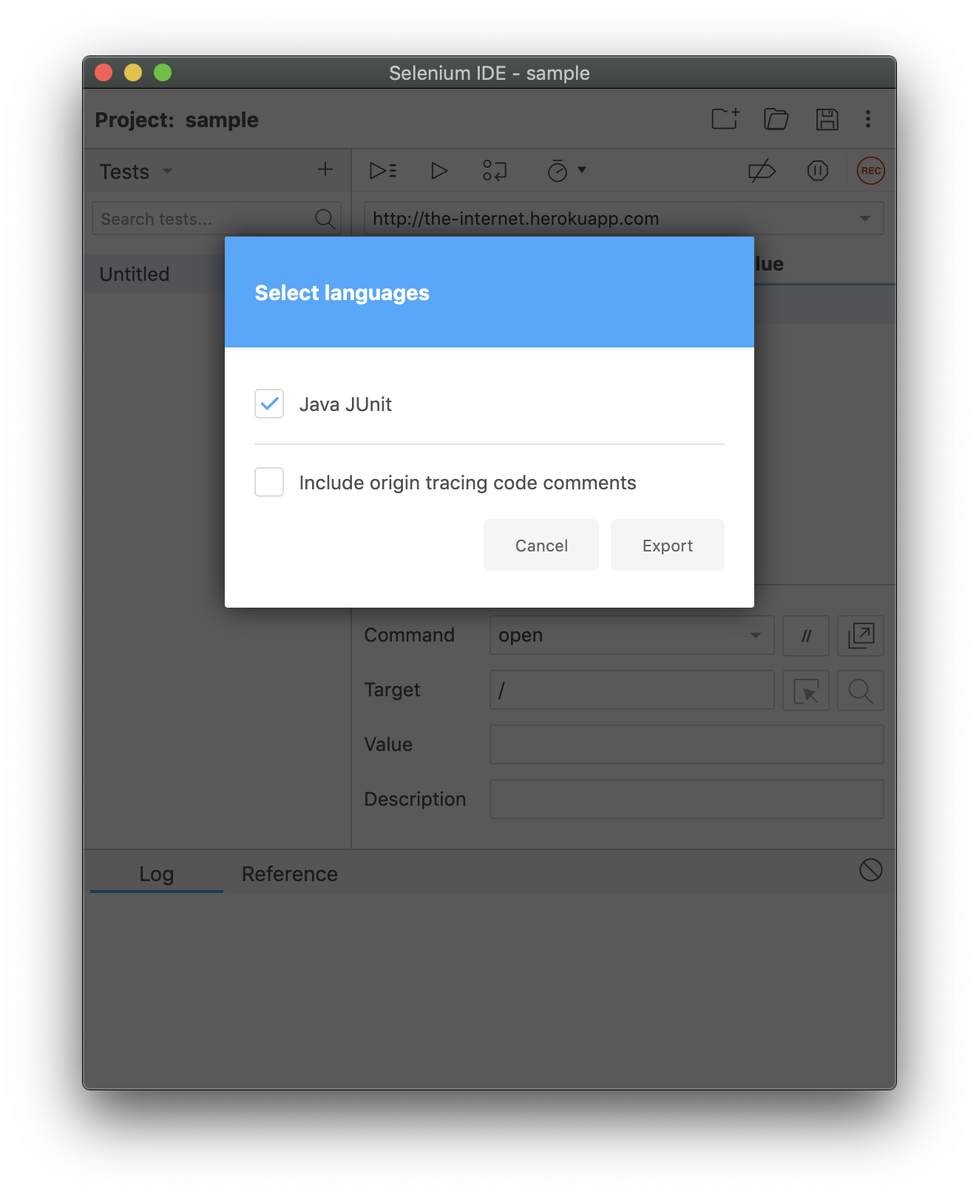
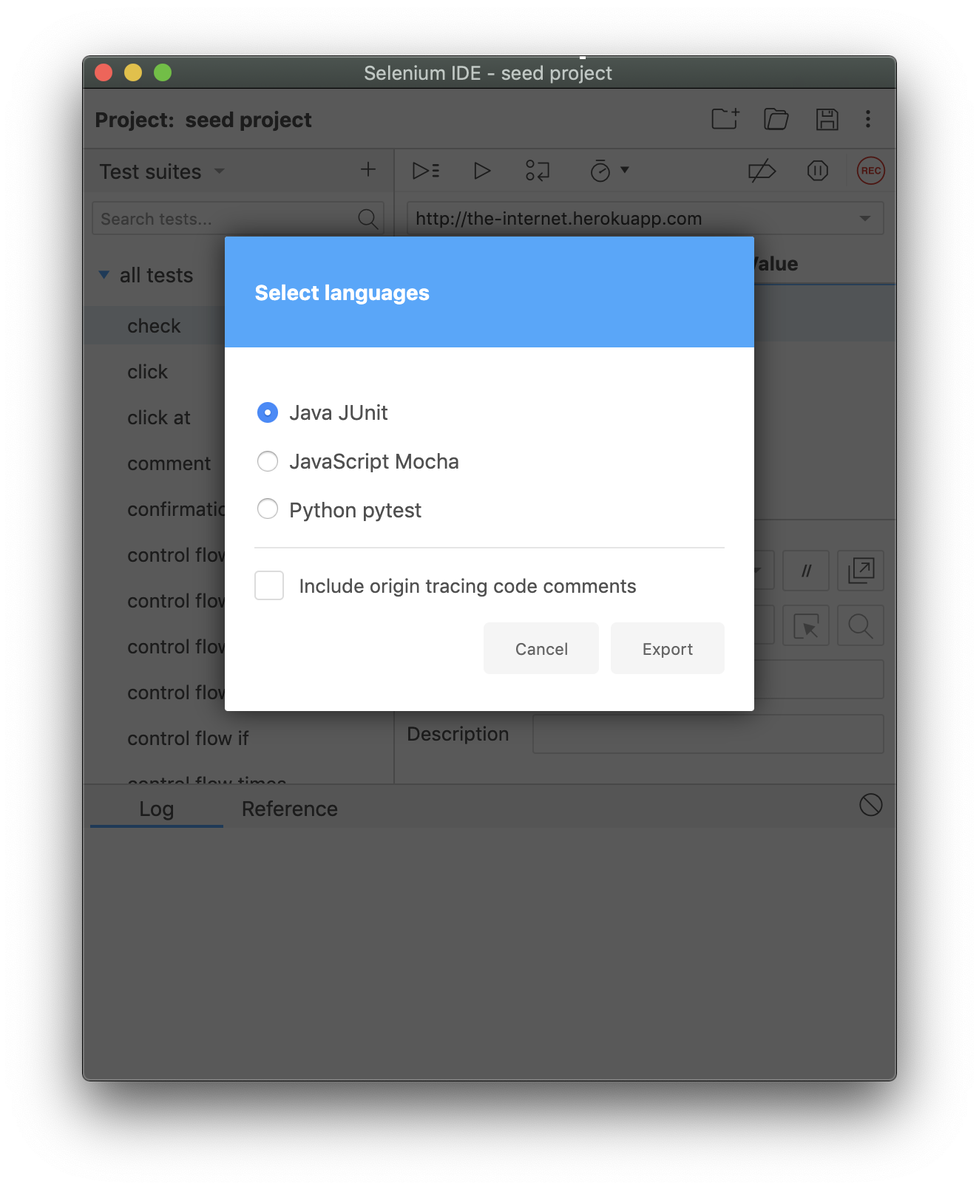
Updated command and code export docs for Selenium IDE

diff --git a/src/main/webapp/selenium-ide/docs/en/introduction/code-export.html b/src/main/webapp/selenium-ide/docs/en/introduction/code-export.html
@@ -44,7 +44,12 @@
 <p>When exporting there is an optional toggle to enable origin tracing code comments.</p>
 <p>This will place inline code comments in the exported file with details about the test step in Selenium IDE that generated it.</p>
 <h2><a class="anchor" aria-hidden="true" id="supported-exports"></a><a href="#supported-exports" aria-hidden="true" class="hash-link"><svg class="hash-link-icon" aria-hidden="true" height="16" version="1.1" viewBox="0 0 16 16" width="16"><path fill-rule="evenodd" d="M4 9h1v1H4c-1.5 0-3-1.69-3-3.5S2.55 3 4 3h4c1.45 0 3 1.69 3 3.5 0 1.41-.91 2.72-2 3.25V8.59c.58-.45 1-1.27 1-2.09C10 5.22 8.98 4 8 4H4c-.98 0-2 1.22-2 2.5S3 9 4 9zm9-3h-1v1h1c1 0 2 1.22 2 2.5S13.98 12 13 12H9c-.98 0-2-1.22-2-2.5 0-.83.42-1.64 1-2.09V6.25c-1.09.53-2 1.84-2 3.25C6 11.31 7.55 13 9 13h4c1.45 0 3-1.69 3-3.5S14.5 6 13 6z"></path></svg></a>Supported Exports</h2>
-<p>Currently, export to Java is supported. Specifically, Java for JUnit.</p>
+<p>Currently, export to the following languages and test frameworks is supported.</p>
+<ul>
+<li>Java JUnit</li>
+<li>JavaScript Mocha</li>
+<li>Python pytest</li>
+</ul>
 <p>We intend to support all of the officially supported programming language bindings for Selenium (e.g., Java, JavaScript, C#, Python, and Ruby) in at least one testing framework for each language.</p>
 <p>Contributions are welcome to help add new languages and test frameworks for a given language. See <a href="/selenium-ide/docs/en/introduction/code-export#how-to-contribute">How To Contribute</a> for details on how.</p>
 <h3><a class="anchor" aria-hidden="true" id="java-junit"></a><a href="#java-junit" aria-hidden="true" class="hash-link"><svg class="hash-link-icon" aria-hidden="true" height="16" version="1.1" viewBox="0 0 16 16" width="16"><path fill-rule="evenodd" d="M4 9h1v1H4c-1.5 0-3-1.69-3-3.5S2.55 3 4 3h4c1.45 0 3 1.69 3 3.5 0 1.41-.91 2.72-2 3.25V8.59c.58-.45 1-1.27 1-2.09C10 5.22 8.98 4 8 4H4c-.98 0-2 1.22-2 2.5S3 9 4 9zm9-3h-1v1h1c1 0 2 1.22 2 2.5S13.98 12 13 12H9c-.98 0-2-1.22-2-2.5 0-.83.42-1.64 1-2.09V6.25c-1.09.53-2 1.84-2 3.25C6 11.31 7.55 13 9 13h4c1.45 0 3-1.69 3-3.5S14.5 6 13 6z"></path></svg></a>Java JUnit</h3>
@@ -72,6 +77,26 @@
   <span class="hljs-tag">&lt;/<span class="hljs-name">dependencies</span>&gt;</span>
 <span class="hljs-tag">&lt;/<span class="hljs-name">project</span>&gt;</span>
 </code></pre>
+<h3><a class="anchor" aria-hidden="true" id="javascript-mocha"></a><a href="#javascript-mocha" aria-hidden="true" class="hash-link"><svg class="hash-link-icon" aria-hidden="true" height="16" version="1.1" viewBox="0 0 16 16" width="16"><path fill-rule="evenodd" d="M4 9h1v1H4c-1.5 0-3-1.69-3-3.5S2.55 3 4 3h4c1.45 0 3 1.69 3 3.5 0 1.41-.91 2.72-2 3.25V8.59c.58-.45 1-1.27 1-2.09C10 5.22 8.98 4 8 4H4c-.98 0-2 1.22-2 2.5S3 9 4 9zm9-3h-1v1h1c1 0 2 1.22 2 2.5S13.98 12 13 12H9c-.98 0-2-1.22-2-2.5 0-.83.42-1.64 1-2.09V6.25c-1.09.53-2 1.84-2 3.25C6 11.31 7.55 13 9 13h4c1.45 0 3-1.69 3-3.5S14.5 6 13 6z"></path></svg></a>JavaScript Mocha</h3>
+<p>The exported code for JavaScript Mocha is built to work with Node 10, Mocha 6.1.x, and the latest version of Selenium 4.</p>
+<p>You should be able to take the exported JavaScript file and run it after installing these dependencies (e.g., with <code>npm install</code>).</p>
+<p>Here's a sample <code>package.json</code> to help you get started.</p>
+<pre><code class="hljs css language-javascript">{
+  <span class="hljs-string">"dependencies"</span>: {
+    <span class="hljs-string">"mocha"</span>: <span class="hljs-string">"^6.1.4"</span>,
+    <span class="hljs-string">"selenium-webdriver"</span>: <span class="hljs-string">"^4.0.0-alpha.3"</span>
+  }
+}
+</code></pre>
+<h3><a class="anchor" aria-hidden="true" id="python-pytest"></a><a href="#python-pytest" aria-hidden="true" class="hash-link"><svg class="hash-link-icon" aria-hidden="true" height="16" version="1.1" viewBox="0 0 16 16" width="16"><path fill-rule="evenodd" d="M4 9h1v1H4c-1.5 0-3-1.69-3-3.5S2.55 3 4 3h4c1.45 0 3 1.69 3 3.5 0 1.41-.91 2.72-2 3.25V8.59c.58-.45 1-1.27 1-2.09C10 5.22 8.98 4 8 4H4c-.98 0-2 1.22-2 2.5S3 9 4 9zm9-3h-1v1h1c1 0 2 1.22 2 2.5S13.98 12 13 12H9c-.98 0-2-1.22-2-2.5 0-.83.42-1.64 1-2.09V6.25c-1.09.53-2 1.84-2 3.25C6 11.31 7.55 13 9 13h4c1.45 0 3-1.69 3-3.5S14.5 6 13 6z"></path></svg></a>Python pytest</h3>
+<p>The exported code for Python pytest is built to work with Python 3, pytest 4.6.x, and the latest version of Selenium 4.</p>
+<p>You should be able to take the exported JavaScript file and run it after installing these dependencies (e.g., with <code>pip3 install</code>).</p>
+<p>Here's a sample <code>requirements.txt</code> to help you get started.</p>
+<pre><code class="hljs">pytest == <span class="hljs-number">4.6</span><span class="hljs-number">.3</span>
+selenium == <span class="hljs-number">4.0</span><span class="hljs-number">.0</span>a1
+</code></pre>
+<pre><code class="hljs css language-sh">&gt; pip3 install -r ./requirements.txt
+</code></pre>
 <h2><a class="anchor" aria-hidden="true" id="how-to-contribute"></a><a href="#how-to-contribute" aria-hidden="true" class="hash-link"><svg class="hash-link-icon" aria-hidden="true" height="16" version="1.1" viewBox="0 0 16 16" width="16"><path fill-rule="evenodd" d="M4 9h1v1H4c-1.5 0-3-1.69-3-3.5S2.55 3 4 3h4c1.45 0 3 1.69 3 3.5 0 1.41-.91 2.72-2 3.25V8.59c.58-.45 1-1.27 1-2.09C10 5.22 8.98 4 8 4H4c-.98 0-2 1.22-2 2.5S3 9 4 9zm9-3h-1v1h1c1 0 2 1.22 2 2.5S13.98 12 13 12H9c-.98 0-2-1.22-2-2.5 0-.83.42-1.64 1-2.09V6.25c-1.09.53-2 1.84-2 3.25C6 11.31 7.55 13 9 13h4c1.45 0 3-1.69 3-3.5S14.5 6 13 6z"></path></svg></a>How To Contribute</h2>
 <p>Code export was built in a modular way to help enable contributions.</p>
 <p>Each language and test framework will have its own package containing the code to be exported. Each snippet of code maps to a command in Selenium IDE and each of these packages rely on an underlying &quot;core&quot; package which does all of the heavy lifting.</p>
@@ -79,7 +104,7 @@
 <h3><a class="anchor" aria-hidden="true" id="1-create-a-new-package"></a><a href="#1-create-a-new-package" aria-hidden="true" class="hash-link"><svg class="hash-link-icon" aria-hidden="true" height="16" version="1.1" viewBox="0 0 16 16" width="16"><path fill-rule="evenodd" d="M4 9h1v1H4c-1.5 0-3-1.69-3-3.5S2.55 3 4 3h4c1.45 0 3 1.69 3 3.5 0 1.41-.91 2.72-2 3.25V8.59c.58-.45 1-1.27 1-2.09C10 5.22 8.98 4 8 4H4c-.98 0-2 1.22-2 2.5S3 9 4 9zm9-3h-1v1h1c1 0 2 1.22 2 2.5S13.98 12 13 12H9c-.98 0-2-1.22-2-2.5 0-.83.42-1.64 1-2.09V6.25c-1.09.53-2 1.84-2 3.25C6 11.31 7.55 13 9 13h4c1.45 0 3-1.69 3-3.5S14.5 6 13 6z"></path></svg></a>1. Create a new package</h3>
 <p>First, copy an existing language package (e.g., <code>packages/code-export-java-junit</code>) and rename it (e.g., the folder and the details in the <code>package.json</code> file) to the target language and framework you'd like to contribute (e.g., <code>packages/code-export-ruby-rspec</code>, etc.).</p>
 <p>Next, add the new package as a dependency to <a href="https://github.com/SeleniumHQ/selenium-ide/blob/c55c556ffc947fd3f6ee8ab317915c6f879a88dc/packages/code-export/package.json#L22">the <code>package.json</code> in <code>code-export</code></a>.</p>
-<p>Lastly, run <code>yarn</code> from the root of the project.</p>
+<p>Lastly, run <code>yarn</code> from the root of the project, and then build the project using <code>yarn watch</code> (full details for getting a local build going are available <a href="https://github.com/SeleniumHQ/selenium-ide/blob/v3/README.md">here</a>).</p>
 <h3><a class="anchor" aria-hidden="true" id="2-update-the-locators-and-commands"></a><a href="#2-update-the-locators-and-commands" aria-hidden="true" class="hash-link"><svg class="hash-link-icon" aria-hidden="true" height="16" version="1.1" viewBox="0 0 16 16" width="16"><path fill-rule="evenodd" d="M4 9h1v1H4c-1.5 0-3-1.69-3-3.5S2.55 3 4 3h4c1.45 0 3 1.69 3 3.5 0 1.41-.91 2.72-2 3.25V8.59c.58-.45 1-1.27 1-2.09C10 5.22 8.98 4 8 4H4c-.98 0-2 1.22-2 2.5S3 9 4 9zm9-3h-1v1h1c1 0 2 1.22 2 2.5S13.98 12 13 12H9c-.98 0-2-1.22-2-2.5 0-.83.42-1.64 1-2.09V6.25c-1.09.53-2 1.84-2 3.25C6 11.31 7.55 13 9 13h4c1.45 0 3-1.69 3-3.5S14.5 6 13 6z"></path></svg></a>2. Update the locators and commands</h3>
 <p>The bread and butter of code export is the language specific strings that will be turned into outputted code. The most prominent of these are the commands and locator strategies (e.g., the syntax for the &quot;by&quot; lookups).</p>
 <p>For a given language, there is a file for each, along with accompanying test files.</p>
@@ -120,4 +145,4 @@
 <p>Test, fix, and test again until you are confident with the end result.</p>
 <h3><a class="anchor" aria-hidden="true" id="7-submit-a-pr"></a><a href="#7-submit-a-pr" aria-hidden="true" class="hash-link"><svg class="hash-link-icon" aria-hidden="true" height="16" version="1.1" viewBox="0 0 16 16" width="16"><path fill-rule="evenodd" d="M4 9h1v1H4c-1.5 0-3-1.69-3-3.5S2.55 3 4 3h4c1.45 0 3 1.69 3 3.5 0 1.41-.91 2.72-2 3.25V8.59c.58-.45 1-1.27 1-2.09C10 5.22 8.98 4 8 4H4c-.98 0-2 1.22-2 2.5S3 9 4 9zm9-3h-1v1h1c1 0 2 1.22 2 2.5S13.98 12 13 12H9c-.98 0-2-1.22-2-2.5 0-.83.42-1.64 1-2.09V6.25c-1.09.53-2 1.84-2 3.25C6 11.31 7.55 13 9 13h4c1.45 0 3-1.69 3-3.5S14.5 6 13 6z"></path></svg></a>7. Submit a PR</h3>
 <p>You've done the hard part. Now it's just a simple matter of submitting a PR. Please do so against the <a href="https://github.com/SeleniumHQ/selenium-ide/tree/v3"><code>v3</code> branch</a>.</p>
-</span></div></article></div><div class="docLastUpdate"><em>Last updated on 6/3/2019</em></div><div class="docs-prevnext"><a class="docs-prev button" href="/selenium-ide/docs/en/introduction/control-flow"><span class="arrow-prev">← </span><span>Control Flow</span></a><a class="docs-next button" href="/selenium-ide/docs/en/introduction/faq"><span>Frequently Asked Questions</span><span class="arrow-next"> →</span></a></div></div></div><nav class="onPageNav"><ul class="toc-headings"><li><a href="#getting-started">Getting Started</a><ul class="toc-headings"><li><a href="#origin-tracing-code-comments">Origin Tracing Code Comments</a></li></ul></li><li><a href="#supported-exports">Supported Exports</a><ul class="toc-headings"><li><a href="#java-junit">Java JUnit</a></li></ul></li><li><a href="#how-to-contribute">How To Contribute</a><ul class="toc-headings"><li><a href="#1-create-a-new-package">1. Create a new package</a></li><li><a href="#2-update-the-locators-and-commands">2. Update the locators and commands</a></li><li><a href="#3-create-the-hooks">3. Create the hooks</a></li><li><a href="#4-update-the-language-specific-attributes">4. Update the language specific attributes</a></li><li><a href="#5-add-it-to-the-mix">5. Add it to the mix</a></li><li><a href="#6-test-and-tune">6. Test and tune</a></li><li><a href="#7-submit-a-pr">7. Submit a PR</a></li></ul></li></ul></nav></div><footer class="nav-footer" id="footer"><section class="sitemap"><a href="/selenium-ide/" class="nav-home"><img src="/selenium-ide/img/selenium-ide64.png" alt="Selenium IDE" width="64"/></a><div><h5>Docs</h5><a href="/selenium-ide/docs/en/introduction/getting-started">Getting Started</a><a href="/selenium-ide/docs/en/api/commands">API Reference</a><a href="/selenium-ide/docs/en/plugins/plugins-getting-started">Build a Plugin</a></div><div><h5>Community</h5><a href="https://seleniumhq.herokuapp.com/" target="_blank" rel="noreferrer noopener">Slack</a><a href="https://webchat.freenode.net/" target="_blank" rel="noreferrer noopener">irc (#selenium)</a><a href="https://groups.google.com/forum/#!forum/selenium-users" target="_blank" rel="noreferrer noopener">Google group</a></div><div><h5>More</h5><a href="/selenium-ide/blog">Blog</a><a href="https://github.com/seleniumhq/selenium-ide" target="_blank" rel="noreferrer noopener">GitHub</a><a class="github-button" href="https://github.com/seleniumhq/selenium-ide" data-icon="octicon-star" data-count-href="/seleniumhq/selenium-ide/stargazers" data-show-count="true" data-count-aria-label="# stargazers on GitHub" aria-label="Star this project on GitHub">Star</a><a href="/selenium-ide/legacy">Legacy IDE</a></div></section><section class="copyright">Copyright © 2019 Software Freedom Conservancy (SFC)</section></footer></div></body></html>
+</span></div></article></div><div class="docLastUpdate"><em>Last updated on 6/3/2019</em></div><div class="docs-prevnext"><a class="docs-prev button" href="/selenium-ide/docs/en/introduction/control-flow"><span class="arrow-prev">← </span><span>Control Flow</span></a><a class="docs-next button" href="/selenium-ide/docs/en/introduction/faq"><span>Frequently Asked Questions</span><span class="arrow-next"> →</span></a></div></div></div><nav class="onPageNav"><ul class="toc-headings"><li><a href="#getting-started">Getting Started</a><ul class="toc-headings"><li><a href="#origin-tracing-code-comments">Origin Tracing Code Comments</a></li></ul></li><li><a href="#supported-exports">Supported Exports</a><ul class="toc-headings"><li><a href="#java-junit">Java JUnit</a></li><li><a href="#javascript-mocha">JavaScript Mocha</a></li><li><a href="#python-pytest">Python pytest</a></li></ul></li><li><a href="#how-to-contribute">How To Contribute</a><ul class="toc-headings"><li><a href="#1-create-a-new-package">1. Create a new package</a></li><li><a href="#2-update-the-locators-and-commands">2. Update the locators and commands</a></li><li><a href="#3-create-the-hooks">3. Create the hooks</a></li><li><a href="#4-update-the-language-specific-attributes">4. Update the language specific attributes</a></li><li><a href="#5-add-it-to-the-mix">5. Add it to the mix</a></li><li><a href="#6-test-and-tune">6. Test and tune</a></li><li><a href="#7-submit-a-pr">7. Submit a PR</a></li></ul></li></ul></nav></div><footer class="nav-footer" id="footer"><section class="sitemap"><a href="/selenium-ide/" class="nav-home"><img src="/selenium-ide/img/selenium-ide64.png" alt="Selenium IDE" width="64"/></a><div><h5>Docs</h5><a href="/selenium-ide/docs/en/introduction/getting-started">Getting Started</a><a href="/selenium-ide/docs/en/api/commands">API Reference</a><a href="/selenium-ide/docs/en/plugins/plugins-getting-started">Build a Plugin</a></div><div><h5>Community</h5><a href="https://seleniumhq.herokuapp.com/" target="_blank" rel="noreferrer noopener">Slack</a><a href="https://webchat.freenode.net/" target="_blank" rel="noreferrer noopener">irc (#selenium)</a><a href="https://groups.google.com/forum/#!forum/selenium-users" target="_blank" rel="noreferrer noopener">Google group</a></div><div><h5>More</h5><a href="/selenium-ide/blog">Blog</a><a href="https://github.com/seleniumhq/selenium-ide" target="_blank" rel="noreferrer noopener">GitHub</a><a class="github-button" href="https://github.com/seleniumhq/selenium-ide" data-icon="octicon-star" data-count-href="/seleniumhq/selenium-ide/stargazers" data-show-count="true" data-count-aria-label="# stargazers on GitHub" aria-label="Star this project on GitHub">Star</a><a href="/selenium-ide/legacy">Legacy IDE</a></div></section><section class="copyright">Copyright © 2019 Software Freedom Conservancy (SFC)</section></footer></div></body></html>

diff --git a/src/main/webapp/selenium-ide/docs/en/introduction/code-export/index.html b/src/main/webapp/selenium-ide/docs/en/introduction/code-export/index.html
@@ -44,7 +44,12 @@
 <p>When exporting there is an optional toggle to enable origin tracing code comments.</p>
 <p>This will place inline code comments in the exported file with details about the test step in Selenium IDE that generated it.</p>
 <h2><a class="anchor" aria-hidden="true" id="supported-exports"></a><a href="#supported-exports" aria-hidden="true" class="hash-link"><svg class="hash-link-icon" aria-hidden="true" height="16" version="1.1" viewBox="0 0 16 16" width="16"><path fill-rule="evenodd" d="M4 9h1v1H4c-1.5 0-3-1.69-3-3.5S2.55 3 4 3h4c1.45 0 3 1.69 3 3.5 0 1.41-.91 2.72-2 3.25V8.59c.58-.45 1-1.27 1-2.09C10 5.22 8.98 4 8 4H4c-.98 0-2 1.22-2 2.5S3 9 4 9zm9-3h-1v1h1c1 0 2 1.22 2 2.5S13.98 12 13 12H9c-.98 0-2-1.22-2-2.5 0-.83.42-1.64 1-2.09V6.25c-1.09.53-2 1.84-2 3.25C6 11.31 7.55 13 9 13h4c1.45 0 3-1.69 3-3.5S14.5 6 13 6z"></path></svg></a>Supported Exports</h2>
-<p>Currently, export to Java is supported. Specifically, Java for JUnit.</p>
+<p>Currently, export to the following languages and test frameworks is supported.</p>
+<ul>
+<li>Java JUnit</li>
+<li>JavaScript Mocha</li>
+<li>Python pytest</li>
+</ul>
 <p>We intend to support all of the officially supported programming language bindings for Selenium (e.g., Java, JavaScript, C#, Python, and Ruby) in at least one testing framework for each language.</p>
 <p>Contributions are welcome to help add new languages and test frameworks for a given language. See <a href="/selenium-ide/docs/en/introduction/code-export#how-to-contribute">How To Contribute</a> for details on how.</p>
 <h3><a class="anchor" aria-hidden="true" id="java-junit"></a><a href="#java-junit" aria-hidden="true" class="hash-link"><svg class="hash-link-icon" aria-hidden="true" height="16" version="1.1" viewBox="0 0 16 16" width="16"><path fill-rule="evenodd" d="M4 9h1v1H4c-1.5 0-3-1.69-3-3.5S2.55 3 4 3h4c1.45 0 3 1.69 3 3.5 0 1.41-.91 2.72-2 3.25V8.59c.58-.45 1-1.27 1-2.09C10 5.22 8.98 4 8 4H4c-.98 0-2 1.22-2 2.5S3 9 4 9zm9-3h-1v1h1c1 0 2 1.22 2 2.5S13.98 12 13 12H9c-.98 0-2-1.22-2-2.5 0-.83.42-1.64 1-2.09V6.25c-1.09.53-2 1.84-2 3.25C6 11.31 7.55 13 9 13h4c1.45 0 3-1.69 3-3.5S14.5 6 13 6z"></path></svg></a>Java JUnit</h3>
@@ -72,6 +77,26 @@
   <span class="hljs-tag">&lt;/<span class="hljs-name">dependencies</span>&gt;</span>
 <span class="hljs-tag">&lt;/<span class="hljs-name">project</span>&gt;</span>
 </code></pre>
+<h3><a class="anchor" aria-hidden="true" id="javascript-mocha"></a><a href="#javascript-mocha" aria-hidden="true" class="hash-link"><svg class="hash-link-icon" aria-hidden="true" height="16" version="1.1" viewBox="0 0 16 16" width="16"><path fill-rule="evenodd" d="M4 9h1v1H4c-1.5 0-3-1.69-3-3.5S2.55 3 4 3h4c1.45 0 3 1.69 3 3.5 0 1.41-.91 2.72-2 3.25V8.59c.58-.45 1-1.27 1-2.09C10 5.22 8.98 4 8 4H4c-.98 0-2 1.22-2 2.5S3 9 4 9zm9-3h-1v1h1c1 0 2 1.22 2 2.5S13.98 12 13 12H9c-.98 0-2-1.22-2-2.5 0-.83.42-1.64 1-2.09V6.25c-1.09.53-2 1.84-2 3.25C6 11.31 7.55 13 9 13h4c1.45 0 3-1.69 3-3.5S14.5 6 13 6z"></path></svg></a>JavaScript Mocha</h3>
+<p>The exported code for JavaScript Mocha is built to work with Node 10, Mocha 6.1.x, and the latest version of Selenium 4.</p>
+<p>You should be able to take the exported JavaScript file and run it after installing these dependencies (e.g., with <code>npm install</code>).</p>
+<p>Here's a sample <code>package.json</code> to help you get started.</p>
+<pre><code class="hljs css language-javascript">{
+  <span class="hljs-string">"dependencies"</span>: {
+    <span class="hljs-string">"mocha"</span>: <span class="hljs-string">"^6.1.4"</span>,
+    <span class="hljs-string">"selenium-webdriver"</span>: <span class="hljs-string">"^4.0.0-alpha.3"</span>
+  }
+}
+</code></pre>
+<h3><a class="anchor" aria-hidden="true" id="python-pytest"></a><a href="#python-pytest" aria-hidden="true" class="hash-link"><svg class="hash-link-icon" aria-hidden="true" height="16" version="1.1" viewBox="0 0 16 16" width="16"><path fill-rule="evenodd" d="M4 9h1v1H4c-1.5 0-3-1.69-3-3.5S2.55 3 4 3h4c1.45 0 3 1.69 3 3.5 0 1.41-.91 2.72-2 3.25V8.59c.58-.45 1-1.27 1-2.09C10 5.22 8.98 4 8 4H4c-.98 0-2 1.22-2 2.5S3 9 4 9zm9-3h-1v1h1c1 0 2 1.22 2 2.5S13.98 12 13 12H9c-.98 0-2-1.22-2-2.5 0-.83.42-1.64 1-2.09V6.25c-1.09.53-2 1.84-2 3.25C6 11.31 7.55 13 9 13h4c1.45 0 3-1.69 3-3.5S14.5 6 13 6z"></path></svg></a>Python pytest</h3>
+<p>The exported code for Python pytest is built to work with Python 3, pytest 4.6.x, and the latest version of Selenium 4.</p>
+<p>You should be able to take the exported JavaScript file and run it after installing these dependencies (e.g., with <code>pip3 install</code>).</p>
+<p>Here's a sample <code>requirements.txt</code> to help you get started.</p>
+<pre><code class="hljs">pytest == <span class="hljs-number">4.6</span><span class="hljs-number">.3</span>
+selenium == <span class="hljs-number">4.0</span><span class="hljs-number">.0</span>a1
+</code></pre>
+<pre><code class="hljs css language-sh">&gt; pip3 install -r ./requirements.txt
+</code></pre>
 <h2><a class="anchor" aria-hidden="true" id="how-to-contribute"></a><a href="#how-to-contribute" aria-hidden="true" class="hash-link"><svg class="hash-link-icon" aria-hidden="true" height="16" version="1.1" viewBox="0 0 16 16" width="16"><path fill-rule="evenodd" d="M4 9h1v1H4c-1.5 0-3-1.69-3-3.5S2.55 3 4 3h4c1.45 0 3 1.69 3 3.5 0 1.41-.91 2.72-2 3.25V8.59c.58-.45 1-1.27 1-2.09C10 5.22 8.98 4 8 4H4c-.98 0-2 1.22-2 2.5S3 9 4 9zm9-3h-1v1h1c1 0 2 1.22 2 2.5S13.98 12 13 12H9c-.98 0-2-1.22-2-2.5 0-.83.42-1.64 1-2.09V6.25c-1.09.53-2 1.84-2 3.25C6 11.31 7.55 13 9 13h4c1.45 0 3-1.69 3-3.5S14.5 6 13 6z"></path></svg></a>How To Contribute</h2>
 <p>Code export was built in a modular way to help enable contributions.</p>
 <p>Each language and test framework will have its own package containing the code to be exported. Each snippet of code maps to a command in Selenium IDE and each of these packages rely on an underlying &quot;core&quot; package which does all of the heavy lifting.</p>
@@ -79,7 +104,7 @@
 <h3><a class="anchor" aria-hidden="true" id="1-create-a-new-package"></a><a href="#1-create-a-new-package" aria-hidden="true" class="hash-link"><svg class="hash-link-icon" aria-hidden="true" height="16" version="1.1" viewBox="0 0 16 16" width="16"><path fill-rule="evenodd" d="M4 9h1v1H4c-1.5 0-3-1.69-3-3.5S2.55 3 4 3h4c1.45 0 3 1.69 3 3.5 0 1.41-.91 2.72-2 3.25V8.59c.58-.45 1-1.27 1-2.09C10 5.22 8.98 4 8 4H4c-.98 0-2 1.22-2 2.5S3 9 4 9zm9-3h-1v1h1c1 0 2 1.22 2 2.5S13.98 12 13 12H9c-.98 0-2-1.22-2-2.5 0-.83.42-1.64 1-2.09V6.25c-1.09.53-2 1.84-2 3.25C6 11.31 7.55 13 9 13h4c1.45 0 3-1.69 3-3.5S14.5 6 13 6z"></path></svg></a>1. Create a new package</h3>
 <p>First, copy an existing language package (e.g., <code>packages/code-export-java-junit</code>) and rename it (e.g., the folder and the details in the <code>package.json</code> file) to the target language and framework you'd like to contribute (e.g., <code>packages/code-export-ruby-rspec</code>, etc.).</p>
 <p>Next, add the new package as a dependency to <a href="https://github.com/SeleniumHQ/selenium-ide/blob/c55c556ffc947fd3f6ee8ab317915c6f879a88dc/packages/code-export/package.json#L22">the <code>package.json</code> in <code>code-export</code></a>.</p>
-<p>Lastly, run <code>yarn</code> from the root of the project.</p>
+<p>Lastly, run <code>yarn</code> from the root of the project, and then build the project using <code>yarn watch</code> (full details for getting a local build going are available <a href="https://github.com/SeleniumHQ/selenium-ide/blob/v3/README.md">here</a>).</p>
 <h3><a class="anchor" aria-hidden="true" id="2-update-the-locators-and-commands"></a><a href="#2-update-the-locators-and-commands" aria-hidden="true" class="hash-link"><svg class="hash-link-icon" aria-hidden="true" height="16" version="1.1" viewBox="0 0 16 16" width="16"><path fill-rule="evenodd" d="M4 9h1v1H4c-1.5 0-3-1.69-3-3.5S2.55 3 4 3h4c1.45 0 3 1.69 3 3.5 0 1.41-.91 2.72-2 3.25V8.59c.58-.45 1-1.27 1-2.09C10 5.22 8.98 4 8 4H4c-.98 0-2 1.22-2 2.5S3 9 4 9zm9-3h-1v1h1c1 0 2 1.22 2 2.5S13.98 12 13 12H9c-.98 0-2-1.22-2-2.5 0-.83.42-1.64 1-2.09V6.25c-1.09.53-2 1.84-2 3.25C6 11.31 7.55 13 9 13h4c1.45 0 3-1.69 3-3.5S14.5 6 13 6z"></path></svg></a>2. Update the locators and commands</h3>
 <p>The bread and butter of code export is the language specific strings that will be turned into outputted code. The most prominent of these are the commands and locator strategies (e.g., the syntax for the &quot;by&quot; lookups).</p>
 <p>For a given language, there is a file for each, along with accompanying test files.</p>
@@ -120,4 +145,4 @@
 <p>Test, fix, and test again until you are confident with the end result.</p>
 <h3><a class="anchor" aria-hidden="true" id="7-submit-a-pr"></a><a href="#7-submit-a-pr" aria-hidden="true" class="hash-link"><svg class="hash-link-icon" aria-hidden="true" height="16" version="1.1" viewBox="0 0 16 16" width="16"><path fill-rule="evenodd" d="M4 9h1v1H4c-1.5 0-3-1.69-3-3.5S2.55 3 4 3h4c1.45 0 3 1.69 3 3.5 0 1.41-.91 2.72-2 3.25V8.59c.58-.45 1-1.27 1-2.09C10 5.22 8.98 4 8 4H4c-.98 0-2 1.22-2 2.5S3 9 4 9zm9-3h-1v1h1c1 0 2 1.22 2 2.5S13.98 12 13 12H9c-.98 0-2-1.22-2-2.5 0-.83.42-1.64 1-2.09V6.25c-1.09.53-2 1.84-2 3.25C6 11.31 7.55 13 9 13h4c1.45 0 3-1.69 3-3.5S14.5 6 13 6z"></path></svg></a>7. Submit a PR</h3>
 <p>You've done the hard part. Now it's just a simple matter of submitting a PR. Please do so against the <a href="https://github.com/SeleniumHQ/selenium-ide/tree/v3"><code>v3</code> branch</a>.</p>
-</span></div></article></div><div class="docLastUpdate"><em>Last updated on 6/3/2019</em></div><div class="docs-prevnext"><a class="docs-prev button" href="/selenium-ide/docs/en/introduction/control-flow"><span class="arrow-prev">← </span><span>Control Flow</span></a><a class="docs-next button" href="/selenium-ide/docs/en/introduction/faq"><span>Frequently Asked Questions</span><span class="arrow-next"> →</span></a></div></div></div><nav class="onPageNav"><ul class="toc-headings"><li><a href="#getting-started">Getting Started</a><ul class="toc-headings"><li><a href="#origin-tracing-code-comments">Origin Tracing Code Comments</a></li></ul></li><li><a href="#supported-exports">Supported Exports</a><ul class="toc-headings"><li><a href="#java-junit">Java JUnit</a></li></ul></li><li><a href="#how-to-contribute">How To Contribute</a><ul class="toc-headings"><li><a href="#1-create-a-new-package">1. Create a new package</a></li><li><a href="#2-update-the-locators-and-commands">2. Update the locators and commands</a></li><li><a href="#3-create-the-hooks">3. Create the hooks</a></li><li><a href="#4-update-the-language-specific-attributes">4. Update the language specific attributes</a></li><li><a href="#5-add-it-to-the-mix">5. Add it to the mix</a></li><li><a href="#6-test-and-tune">6. Test and tune</a></li><li><a href="#7-submit-a-pr">7. Submit a PR</a></li></ul></li></ul></nav></div><footer class="nav-footer" id="footer"><section class="sitemap"><a href="/selenium-ide/" class="nav-home"><img src="/selenium-ide/img/selenium-ide64.png" alt="Selenium IDE" width="64"/></a><div><h5>Docs</h5><a href="/selenium-ide/docs/en/introduction/getting-started">Getting Started</a><a href="/selenium-ide/docs/en/api/commands">API Reference</a><a href="/selenium-ide/docs/en/plugins/plugins-getting-started">Build a Plugin</a></div><div><h5>Community</h5><a href="https://seleniumhq.herokuapp.com/" target="_blank" rel="noreferrer noopener">Slack</a><a href="https://webchat.freenode.net/" target="_blank" rel="noreferrer noopener">irc (#selenium)</a><a href="https://groups.google.com/forum/#!forum/selenium-users" target="_blank" rel="noreferrer noopener">Google group</a></div><div><h5>More</h5><a href="/selenium-ide/blog">Blog</a><a href="https://github.com/seleniumhq/selenium-ide" target="_blank" rel="noreferrer noopener">GitHub</a><a class="github-button" href="https://github.com/seleniumhq/selenium-ide" data-icon="octicon-star" data-count-href="/seleniumhq/selenium-ide/stargazers" data-show-count="true" data-count-aria-label="# stargazers on GitHub" aria-label="Star this project on GitHub">Star</a><a href="/selenium-ide/legacy">Legacy IDE</a></div></section><section class="copyright">Copyright © 2019 Software Freedom Conservancy (SFC)</section></footer></div></body></html>
+</span></div></article></div><div class="docLastUpdate"><em>Last updated on 6/3/2019</em></div><div class="docs-prevnext"><a class="docs-prev button" href="/selenium-ide/docs/en/introduction/control-flow"><span class="arrow-prev">← </span><span>Control Flow</span></a><a class="docs-next button" href="/selenium-ide/docs/en/introduction/faq"><span>Frequently Asked Questions</span><span class="arrow-next"> →</span></a></div></div></div><nav class="onPageNav"><ul class="toc-headings"><li><a href="#getting-started">Getting Started</a><ul class="toc-headings"><li><a href="#origin-tracing-code-comments">Origin Tracing Code Comments</a></li></ul></li><li><a href="#supported-exports">Supported Exports</a><ul class="toc-headings"><li><a href="#java-junit">Java JUnit</a></li><li><a href="#javascript-mocha">JavaScript Mocha</a></li><li><a href="#python-pytest">Python pytest</a></li></ul></li><li><a href="#how-to-contribute">How To Contribute</a><ul class="toc-headings"><li><a href="#1-create-a-new-package">1. Create a new package</a></li><li><a href="#2-update-the-locators-and-commands">2. Update the locators and commands</a></li><li><a href="#3-create-the-hooks">3. Create the hooks</a></li><li><a href="#4-update-the-language-specific-attributes">4. Update the language specific attributes</a></li><li><a href="#5-add-it-to-the-mix">5. Add it to the mix</a></li><li><a href="#6-test-and-tune">6. Test and tune</a></li><li><a href="#7-submit-a-pr">7. Submit a PR</a></li></ul></li></ul></nav></div><footer class="nav-footer" id="footer"><section class="sitemap"><a href="/selenium-ide/" class="nav-home"><img src="/selenium-ide/img/selenium-ide64.png" alt="Selenium IDE" width="64"/></a><div><h5>Docs</h5><a href="/selenium-ide/docs/en/introduction/getting-started">Getting Started</a><a href="/selenium-ide/docs/en/api/commands">API Reference</a><a href="/selenium-ide/docs/en/plugins/plugins-getting-started">Build a Plugin</a></div><div><h5>Community</h5><a href="https://seleniumhq.herokuapp.com/" target="_blank" rel="noreferrer noopener">Slack</a><a href="https://webchat.freenode.net/" target="_blank" rel="noreferrer noopener">irc (#selenium)</a><a href="https://groups.google.com/forum/#!forum/selenium-users" target="_blank" rel="noreferrer noopener">Google group</a></div><div><h5>More</h5><a href="/selenium-ide/blog">Blog</a><a href="https://github.com/seleniumhq/selenium-ide" target="_blank" rel="noreferrer noopener">GitHub</a><a class="github-button" href="https://github.com/seleniumhq/selenium-ide" data-icon="octicon-star" data-count-href="/seleniumhq/selenium-ide/stargazers" data-show-count="true" data-count-aria-label="# stargazers on GitHub" aria-label="Star this project on GitHub">Star</a><a href="/selenium-ide/legacy">Legacy IDE</a></div></section><section class="copyright">Copyright © 2019 Software Freedom Conservancy (SFC)</section></footer></div></body></html>

diff --git a/src/main/webapp/selenium-ide/docs/en/api/commands.html b/src/main/webapp/selenium-ide/docs/en/api/commands.html
@@ -411,7 +411,7 @@ in control flow commands.</li>
 </ul>
 <hr>
 <h2><a class="anchor" aria-hidden="true" id="select-frame"></a><a href="#select-frame" aria-hidden="true" class="hash-link"><svg class="hash-link-icon" aria-hidden="true" height="16" version="1.1" viewBox="0 0 16 16" width="16"><path fill-rule="evenodd" d="M4 9h1v1H4c-1.5 0-3-1.69-3-3.5S2.55 3 4 3h4c1.45 0 3 1.69 3 3.5 0 1.41-.91 2.72-2 3.25V8.59c.58-.45 1-1.27 1-2.09C10 5.22 8.98 4 8 4H4c-.98 0-2 1.22-2 2.5S3 9 4 9zm9-3h-1v1h1c1 0 2 1.22 2 2.5S13.98 12 13 12H9c-.98 0-2-1.22-2-2.5 0-.83.42-1.64 1-2.09V6.25c-1.09.53-2 1.84-2 3.25C6 11.31 7.55 13 9 13h4c1.45 0 3-1.69 3-3.5S14.5 6 13 6z"></path></svg></a><code>select frame</code></h2>
-<p>Selects a frame within the current window. You may invoke this command multiple times to select a nested frame. NOTE: To select the parent frame, use &quot;relative=parent&quot; as a locator. To select the top frame, use &quot;relative=top&quot;. You can also select a frame by its 0-based index number (e.g., select the first frame with &quot;index=0&quot;, or the third frame with &quot;index=2&quot;).</p>
+<p>Selects a frame within the current window. You can select a frame by its 0-based index number (e.g., select the first frame with &quot;index=0&quot;, or the third frame with &quot;index=2&quot;). For nested frames you will need to invoke this command multiple times (once for each frame in the tree until you reach your desired frame). You can select the parent frame with &quot;relative=parent&quot;. To return to the top of the page use &quot;relative=top&quot;.</p>
 <p><strong>arguments</strong></p>
 <ul>
 <li><a href="/selenium-ide/docs/en/api/arguments#locator">locator</a>: An element locator.</li>

diff --git a/src/main/webapp/selenium-ide/docs/en/api/commands/index.html b/src/main/webapp/selenium-ide/docs/en/api/commands/index.html
@@ -411,7 +411,7 @@ in control flow commands.</li>
 </ul>
 <hr>
 <h2><a class="anchor" aria-hidden="true" id="select-frame"></a><a href="#select-frame" aria-hidden="true" class="hash-link"><svg class="hash-link-icon" aria-hidden="true" height="16" version="1.1" viewBox="0 0 16 16" width="16"><path fill-rule="evenodd" d="M4 9h1v1H4c-1.5 0-3-1.69-3-3.5S2.55 3 4 3h4c1.45 0 3 1.69 3 3.5 0 1.41-.91 2.72-2 3.25V8.59c.58-.45 1-1.27 1-2.09C10 5.22 8.98 4 8 4H4c-.98 0-2 1.22-2 2.5S3 9 4 9zm9-3h-1v1h1c1 0 2 1.22 2 2.5S13.98 12 13 12H9c-.98 0-2-1.22-2-2.5 0-.83.42-1.64 1-2.09V6.25c-1.09.53-2 1.84-2 3.25C6 11.31 7.55 13 9 13h4c1.45 0 3-1.69 3-3.5S14.5 6 13 6z"></path></svg></a><code>select frame</code></h2>
-<p>Selects a frame within the current window. You may invoke this command multiple times to select a nested frame. NOTE: To select the parent frame, use &quot;relative=parent&quot; as a locator. To select the top frame, use &quot;relative=top&quot;. You can also select a frame by its 0-based index number (e.g., select the first frame with &quot;index=0&quot;, or the third frame with &quot;index=2&quot;).</p>
+<p>Selects a frame within the current window. You can select a frame by its 0-based index number (e.g., select the first frame with &quot;index=0&quot;, or the third frame with &quot;index=2&quot;). For nested frames you will need to invoke this command multiple times (once for each frame in the tree until you reach your desired frame). You can select the parent frame with &quot;relative=parent&quot;. To return to the top of the page use &quot;relative=top&quot;.</p>
 <p><strong>arguments</strong></p>
 <ul>
 <li><a href="/selenium-ide/docs/en/api/arguments#locator">locator</a>: An element locator.</li>
